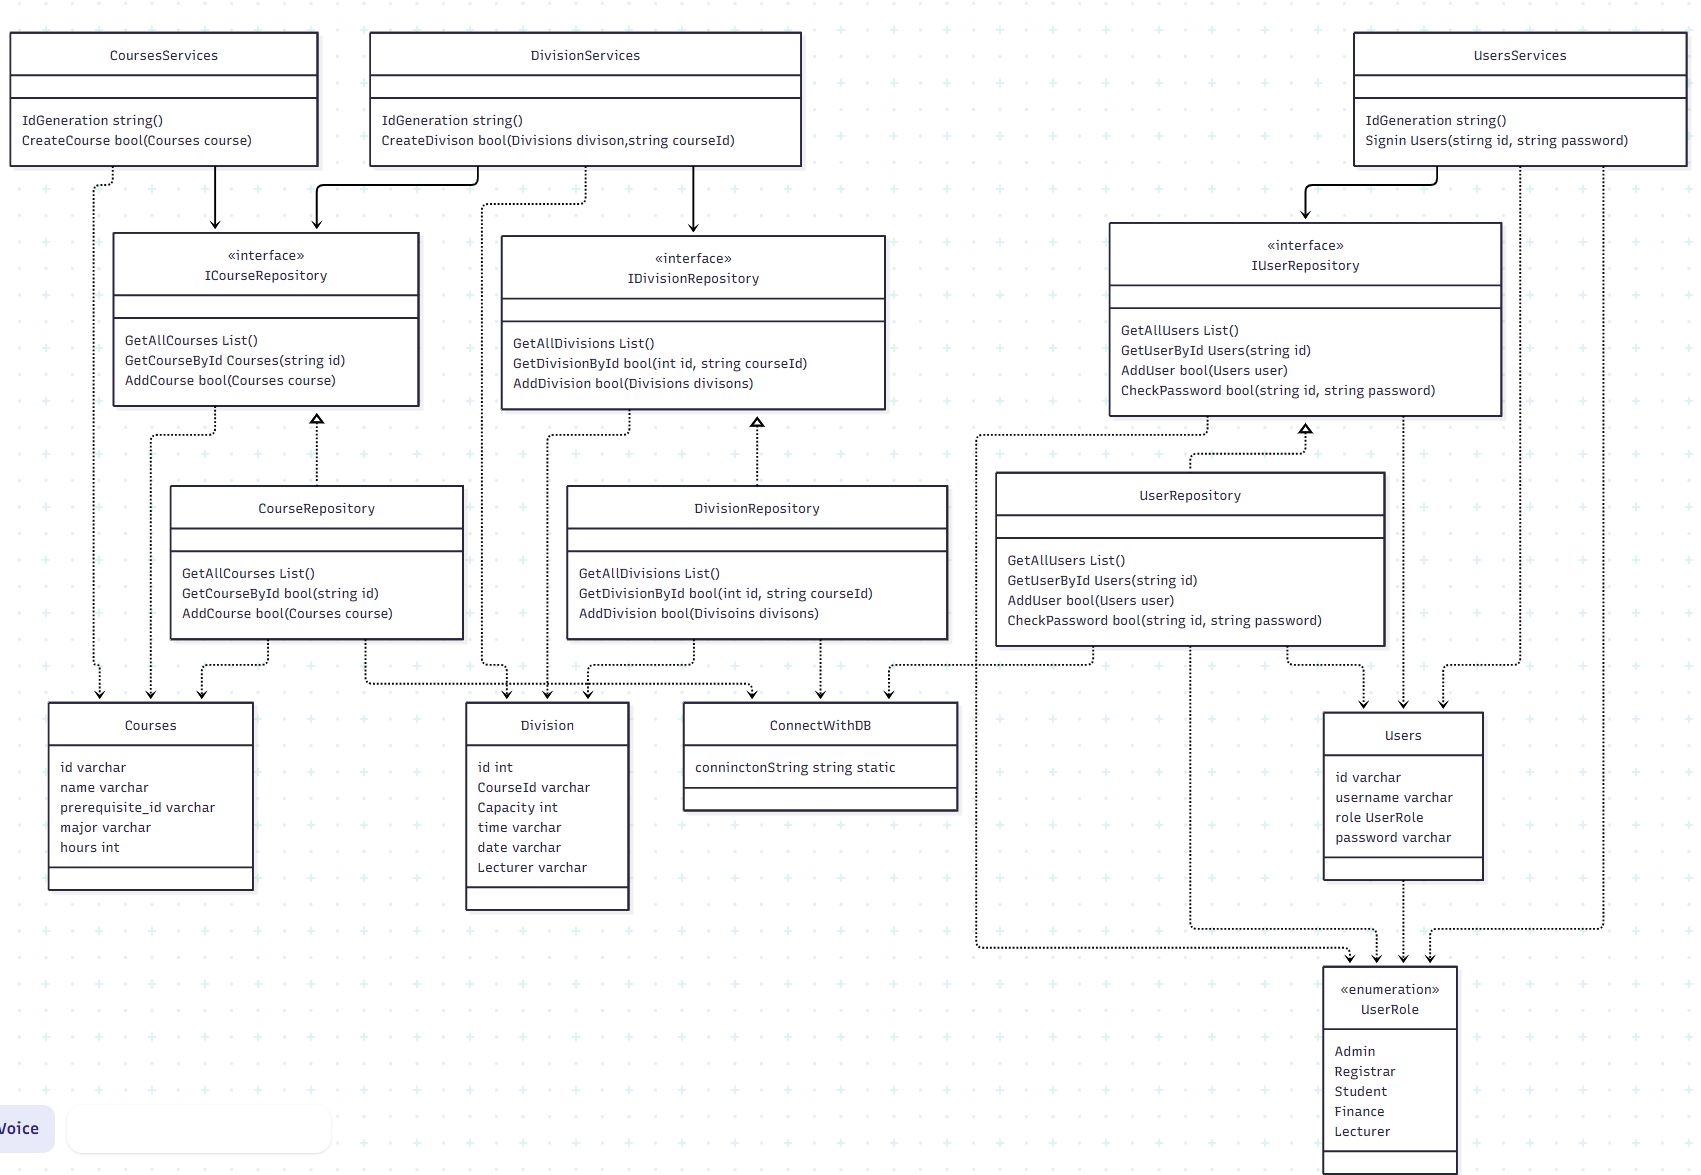
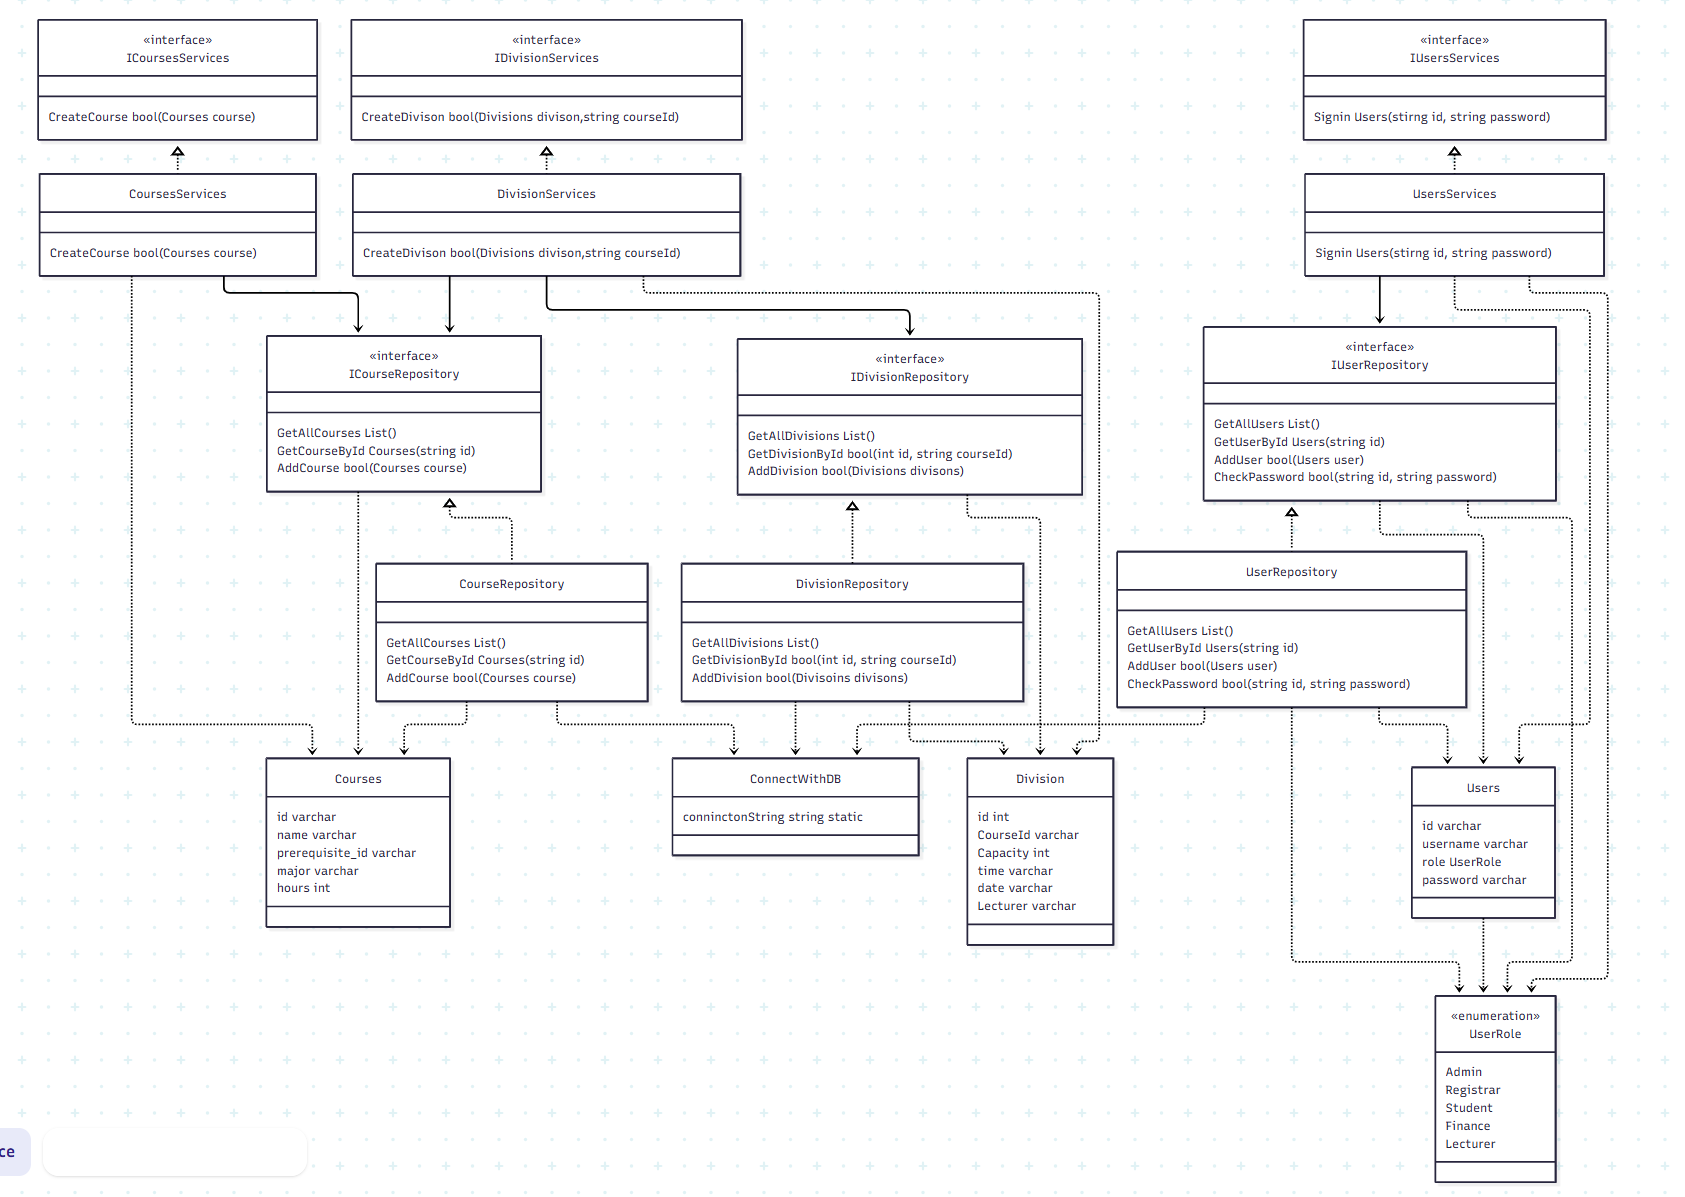
add interface for services classes and add it in class diagram
add interface for Courses, Division and Users classes and change class diagram

Changed region(s): [[0.0, 0.0, 1.0, 1.0], [0.7407, 0.766, 0.7715, 0.7966], [0.0, 0.9498, 0.0309, 0.9804]]

diff --git a/Interfaces/ICoursesServices.cs b/Interfaces/ICoursesServices.cs
@@ -1,0 +1,9 @@
+using UniversitySystem.Models;
+
+namespace UniversitySystem.Interfaces
+{
+    internal interface ICoursesServices
+    {
+        bool CreateCourse(Courses course); 
+    }
+}

diff --git a/Interfaces/IDivisionsServices.cs b/Interfaces/IDivisionsServices.cs
@@ -1,0 +1,9 @@
+using UniversitySystem.Models;
+
+namespace UniversitySystem.Interfaces
+{
+    internal interface IDivisionsServices
+    {
+        bool CreateDivison(Divisions divison, string courseId);
+    }
+}

diff --git a/Interfaces/IUserServices.cs b/Interfaces/IUserServices.cs
@@ -1,0 +1,9 @@
+using UniversitySystem.Models;
+
+namespace UniversitySystem.Interfaces
+{
+    internal interface IUserServices
+    {
+        bool CreateCourse(Courses course);
+    }
+}

diff --git a/Services/UserServices.cs b/Services/UserServices.cs
@@ -1,19 +1,16 @@
 using System;
-using System.Collections.Generic;
-using System.Linq;
-using System.Text;
-using System.Threading.Tasks;
+using UniversitySystem.Interfaces;
 using UniversitySystem.Models;
 
 namespace UniversitySystem.Services
 {
-    public class UserServices
+    public class UserServices : IUserServices
     {
         public string IdGeneration()
         {
             throw new NotImplementedException();
         }
-        bool CreateCourse(Courses course)
+        public bool CreateCourse(Courses course)
         {
             throw new NotImplementedException();
         }

diff --git a/Repositories/DivisionRepository.cs b/Repositories/DivisionRepository.cs
@@ -1,10 +1,5 @@
-using System;
-using System.Collections.Generic;
+using System.Collections.Generic;
 using System.Data.SqlClient;
-using System.Linq;
-using System.Text;
-using System.Threading.Tasks;
-using TestConsole;
 using UniversitySystem.Interfaces;
 using UniversitySystem.Models;
 

diff --git a/Services/CoursesServices.cs b/Services/CoursesServices.cs
@@ -1,12 +1,9 @@
 using System;
-using System.Collections.Generic;
-using System.Linq;
-using System.Text;
-using System.Threading.Tasks;
+using UniversitySystem.Interfaces;
 using UniversitySystem.Models;
 namespace UniversitySystem.Services
 {
-    public class CoursesServices
+    public class CoursesServices : ICoursesServices
     {
       public string IdGeneration()
         {

diff --git a/Services/DivisionsServices.cs b/Services/DivisionsServices.cs
@@ -1,13 +1,10 @@
 using System;
-using System.Collections.Generic;
-using System.Linq;
-using System.Text;
-using System.Threading.Tasks;
+using UniversitySystem.Interfaces;
 using UniversitySystem.Models;
 
 namespace UniversitySystem.Services
 {
-    public class DivisionsServices
+    public class DivisionsServices : IDivisionsServices
     {
         public string IdGeneration()
         {

diff --git a/Interfaces/ICoursesRepository.cs b/Interfaces/ICoursesRepository.cs
@@ -1,8 +1,4 @@
-using System;
-using System.Collections.Generic;
-using System.Linq;
-using System.Text;
-using System.Threading.Tasks;
+using System.Collections.Generic;
 using UniversitySystem.Models;
 
 namespace UniversitySystem.Interfaces

diff --git a/Interfaces/IUserRepository.cs b/Interfaces/IUserRepository.cs
@@ -1,8 +1,4 @@
-using System;
-using System.Collections.Generic;
-using System.Linq;
-using System.Text;
-using System.Threading.Tasks;
+using System.Collections.Generic;
 using UniversitySystem.Models;
 
 namespace UniversitySystem.Interfaces

diff --git a/Interfaces/IDivisionRepository.cs b/Interfaces/IDivisionRepository.cs
@@ -1,8 +1,7 @@
-using System;
-using System.Collections.Generic;
+using System.Collections.Generic;
 using UniversitySystem.Models;
 
-namespace TestConsole
+namespace UniversitySystem.Interfaces
 {
     internal interface IDivisionRepository
     {